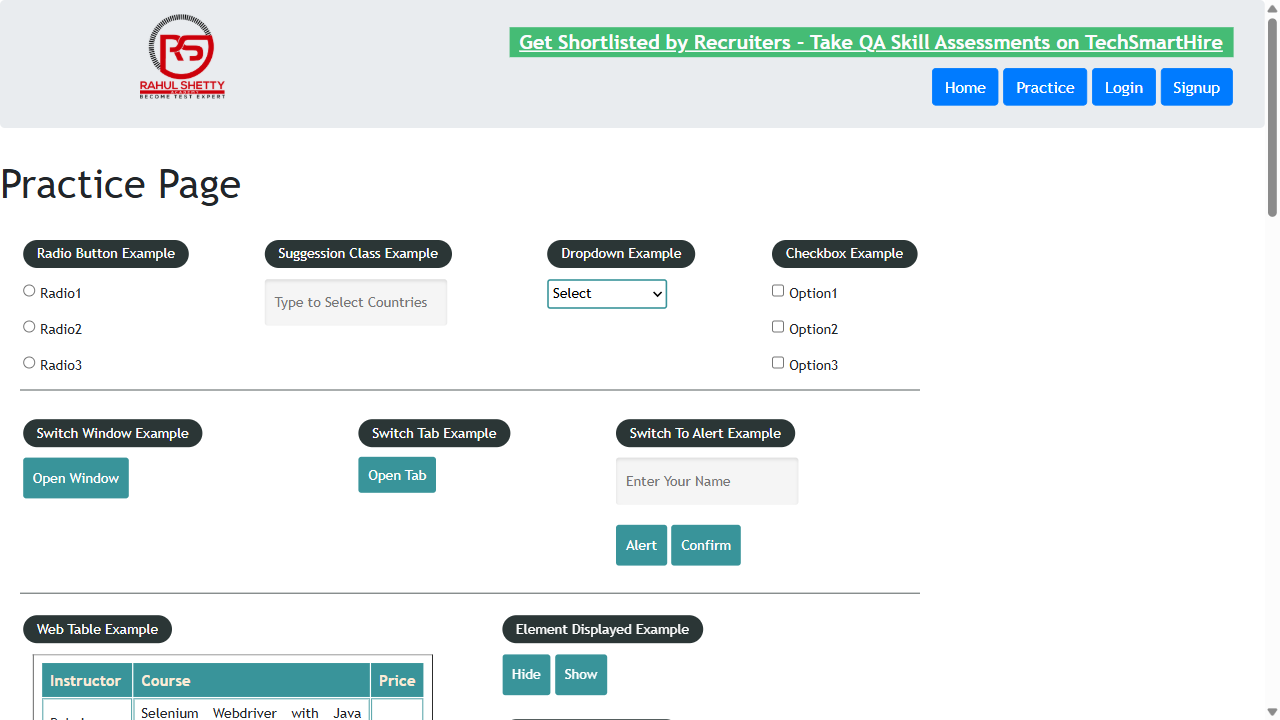
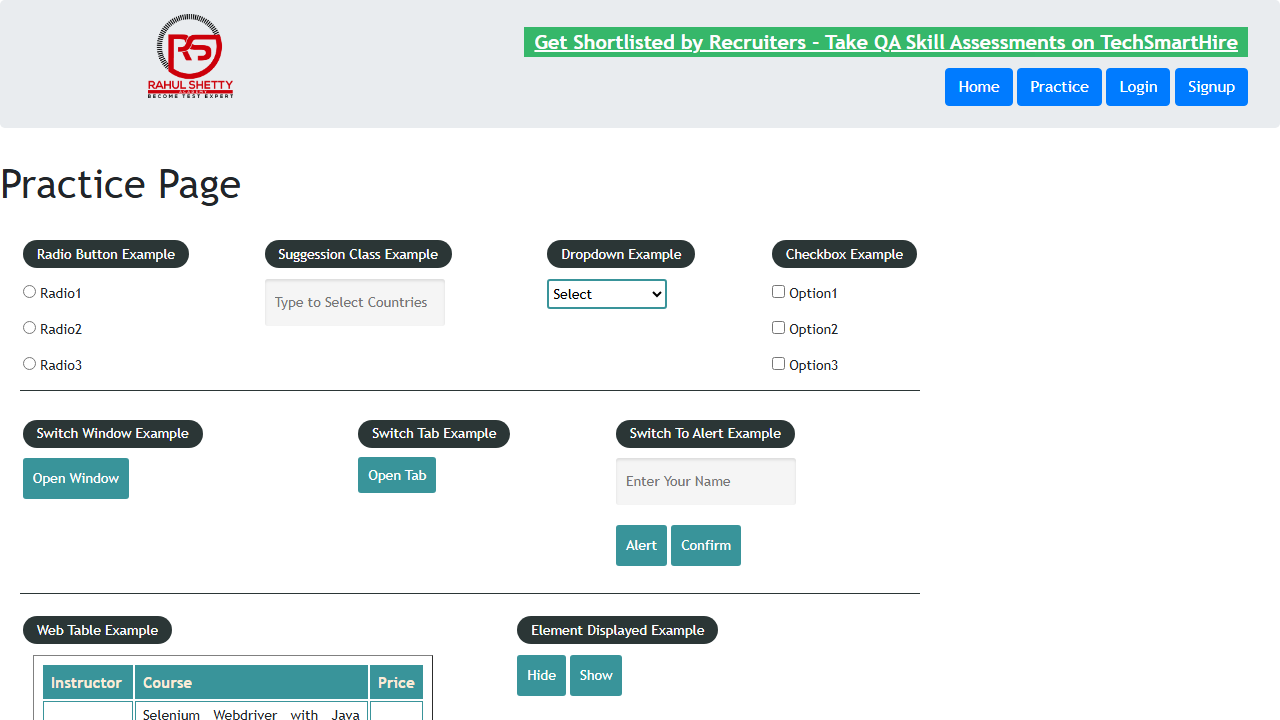
Changed productName in tests/WebAutomation.spec.js

diff --git a/tests/WebAutomation.spec.js b/tests/WebAutomation.spec.js
@@ -4,8 +4,8 @@ const { TEST_CREDENTIALS, WEB_BASE_URL } = require('../config/env');
 test('Web Automation' , async ({ page }) =>
 {
     const products = page.locator(".card-body")
-    const productName = "ZARA COAT 3"
-    const email = "ayan@example.com"
+    const productName = "ADIDAS ORIGINAL";
+    const email = TEST_CREDENTIALS.email;
     await page.goto(WEB_BASE_URL);
     await page.locator("#userEmail").fill(TEST_CREDENTIALS.email);
     await page.locator("#userPassword").fill(TEST_CREDENTIALS.password);
@@ -25,7 +25,7 @@ test('Web Automation' , async ({ page }) =>
     }
     await page.locator("[routerlink*='cart']").click();
     await page.locator("div li").first().waitFor();
-    const bool = await page.locator("h3:has-text('Zara Coat 3')").isVisible();
+    const bool = await page.locator("h3:has-text('ADIDAS ORIGINAL')").isVisible();
     expect(bool).toBeTruthy();
     await page.locator("text=Checkout").click();
     await page.locator('.field input.txt').nth(0).fill("");

diff --git a/tests/utils/APiUtils.js b/tests/utils/APiUtils.js
@@ -1,4 +1,4 @@
-const { WEB_ORDER_URL, WEB_BASE_URL } = require("../../config/env");
+const { WEB_ORDER_URL } = require("../../config/env");
 
 class APiUtils
 {
@@ -23,7 +23,7 @@ class APiUtils
     async getToken() {
     try {
         const loginResponse = await this.apiCall.post(
-            WEB_BASE_URL,
+            "https://rahulshettyacademy.com/api/ecom/auth/login",
             { data: this.loginPayload }
         );
             
